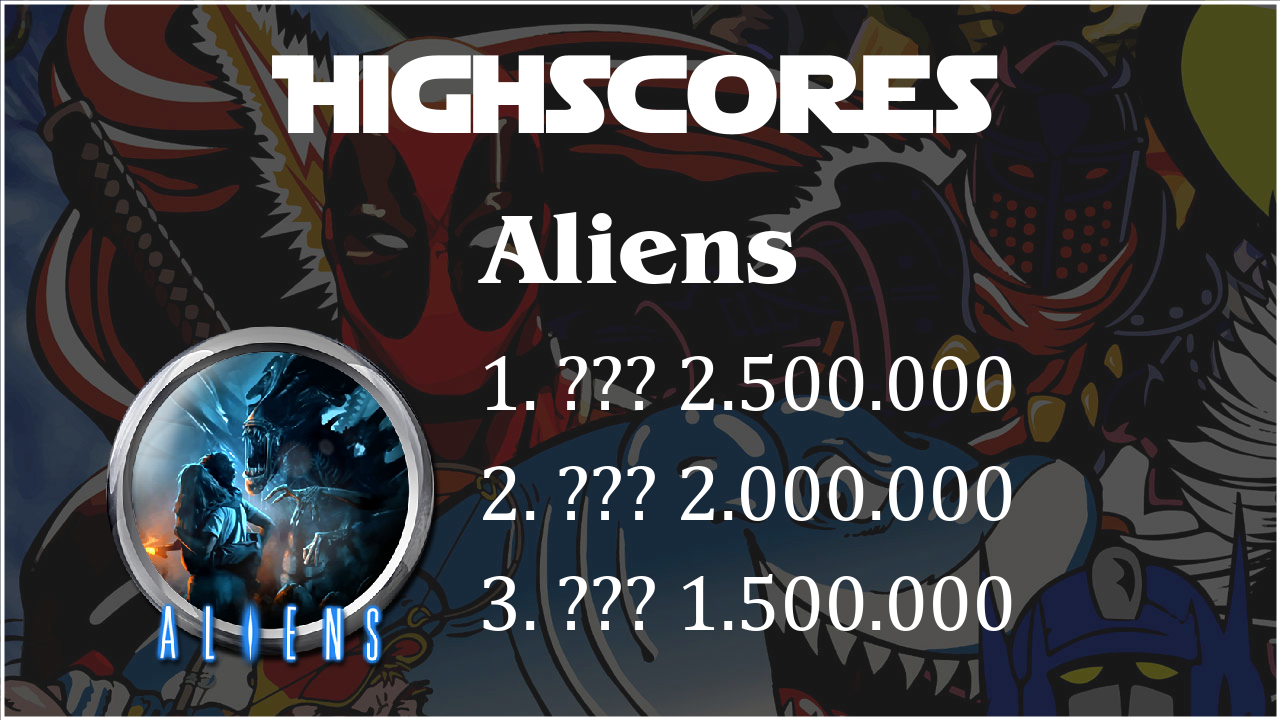
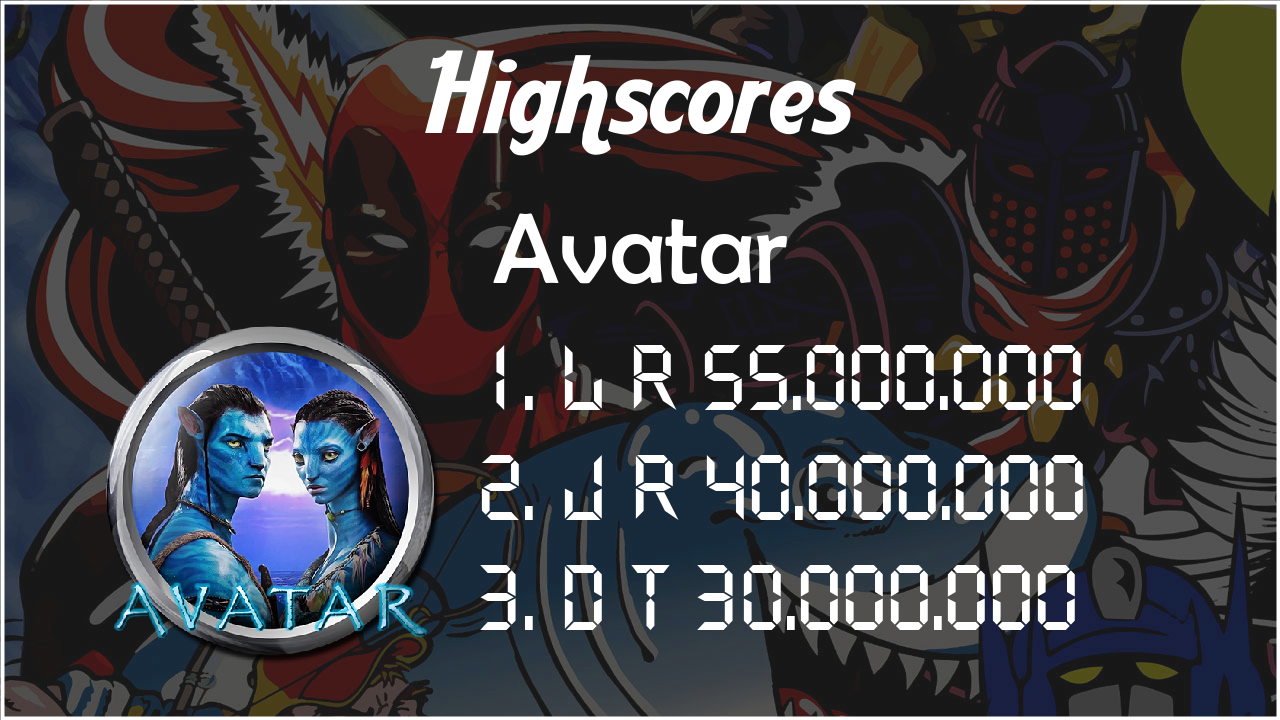
package refactoring

diff --git a/src/main/java/de/mephisto/vpin/extensions/OverlayWindowFX.java b/src/main/java/de/mephisto/vpin/extensions/OverlayWindowFX.java
@@ -15,6 +15,7 @@ import javafx.scene.image.Image;
 import javafx.scene.image.ImageView;
 import javafx.stage.Screen;
 import javafx.stage.Stage;
+import org.apache.commons.lang3.StringUtils;
 import org.jnativehook.GlobalScreen;
 import org.jnativehook.keyboard.NativeKeyEvent;
 import org.jnativehook.keyboard.NativeKeyListener;
@@ -41,7 +42,12 @@ public class OverlayWindowFX extends Application implements NativeKeyListener {
   public void start(Stage primaryStage) throws Exception {
     this.stage = primaryStage;
     String hotkey = Config.getOverlayGeneratorConfig().getString("overlay.hotkey");
-    keyChecker = new KeyChecker(hotkey);
+    if(StringUtils.isEmpty(hotkey)) {
+      LOG.error("No overlay hotkey defined! Define a key binding on the overlay configuration tab and restart the service.");
+    }
+    else {
+      keyChecker = new KeyChecker(hotkey);
+    }
 
     Platform.setImplicitExit(false);
 
@@ -81,7 +87,7 @@ public class OverlayWindowFX extends Application implements NativeKeyListener {
 
   @Override
   public void nativeKeyPressed(NativeKeyEvent nativeKeyEvent) {
-    if (keyChecker.matches(nativeKeyEvent)) {
+    if (keyChecker != null && keyChecker.matches(nativeKeyEvent)) {
       this.visible = !visible;
       Platform.runLater(() -> {
         LOG.info("Toggle show");

diff --git a/src/main/java/de/mephisto/vpin/extensions/generator/OverlayGraphics.java b/src/main/java/de/mephisto/vpin/extensions/generator/OverlayGraphics.java
@@ -123,7 +123,7 @@ public class OverlayGraphics extends VPinGraphics {
 
       for (String score : scores) {
         position++;
-        int scoreY = tableNameY + position * TITLE_FONT_SIZE + ROW_SEPARATOR;
+        int scoreY = tableNameY + (position * SCORE_FONT_SIZE) + ROW_SEPARATOR;
         g.drawString(score, imageWidth / 2 - totalScoreAndWheelWidth / 2 + wheelWidth + ROW_SEPARATOR, scoreY);
       }
 
@@ -175,7 +175,7 @@ public class OverlayGraphics extends VPinGraphics {
 
       if (wheelIconFile.exists()) {
         BufferedImage wheelImage = ImageIO.read(wheelIconFile);
-        g.drawImage(wheelImage, ROW_PADDING_LEFT, yStart, ROW_HEIGHT, ROW_HEIGHT, null);
+        g.drawImage(wheelImage, ROW_PADDING_LEFT, yStart + 12, ROW_HEIGHT, ROW_HEIGHT, null);
       }
 
       int x = ROW_HEIGHT + ROW_PADDING_LEFT + ROW_HEIGHT / 3;

diff --git a/README.md b/README.md
@@ -1,5 +1,18 @@
 # VPin Extensions
 
+VPin Extensions provides an easy generation of highscore cards for Visual Pinball tables running with VPX 
+and PinUP Popper.
+
+Additionally, the service runner provides the generation of a global highscore card which includes multiple tables.
+This overlay can be opend via configurable shortcut every time using PinUP popper or playing a table.
+
+## Installation
+
+
+
+
+
+
 The usual modifier keys are numeric here:
 
 Strg/Ctrl-Left: 2
